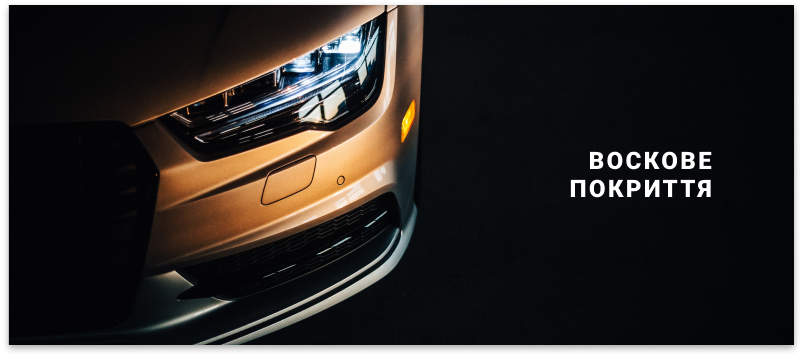
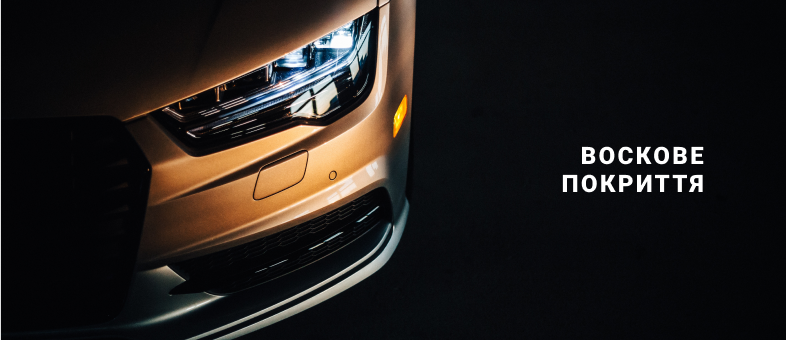
downloaded new images without attatchments, realigned all and fixed reponsiveness

diff --git a/css/style.css b/css/style.css
@@ -387,6 +387,7 @@ main {
   position: relative;
   margin-top: 183px; }
   main .top-grid a img {
+    box-shadow: 0px 3px 8px rgba(0, 0, 0, 0.35);
     opacity: 0.9;
     transition: all ease-in-out 300ms;
     -webkit-transition: all ease-in-out 300ms;
@@ -404,25 +405,40 @@ main {
       -o-transform: scale(1.02); }
     main .top-grid a img.one {
       width: 373.96px;
-      height: 410px; }
+      height: 410px;
+      border-radius: 20px 0 0 0;
+      -webkit-border-radius: 20px 0 0 0;
+      -moz-border-radius: 20px 0 0 0;
+      -ms-border-radius: 20px 0 0 0;
+      -o-border-radius: 20px 0 0 0; }
     main .top-grid a img.two {
       width: 780.1px;
-      height: 340px; }
+      height: 340px;
+      border-radius: 0 20px 0 0;
+      -webkit-border-radius: 0 20px 0 0;
+      -moz-border-radius: 0 20px 0 0;
+      -ms-border-radius: 0 20px 0 0;
+      -o-border-radius: 0 20px 0 0; }
     main .top-grid a img.three {
       width: 373.96px;
       height: 532px; }
     main .top-grid a img.four {
-      width: 450.32px;
-      height: 280px; }
+      width: 448.32px;
+      height: 274px; }
     main .top-grid a img.five {
       width: 325.85px;
-      height: 280px; }
+      height: 274px; }
     main .top-grid a img.six {
-      width: 785.1px;
+      width: 778.1px;
       height: 318px; }
     main .top-grid a img.seven {
       width: 1156px;
-      height: 364px; }
+      height: 364px;
+      border-radius: 0 0 20px 20px;
+      -webkit-border-radius: 0 0 20px 20px;
+      -moz-border-radius: 0 0 20px 20px;
+      -ms-border-radius: 0 0 20px 20px;
+      -o-border-radius: 0 0 20px 20px; }
   main h1 {
     color: #8B8B8B;
     font-family: "Roboto Condensed", sans-serif;
@@ -970,8 +986,20 @@ footer {
   .top-grid .seven {
     width: 100vw !important;
     height: auto !important;
-    margin: 0 !important;
-    padding: 0 !important; }
+    margin: 5px 0 !important;
+    padding: 10px !important; }
+  .top-grid .one {
+    border-radius: 20px 20px 0 0 !important;
+    -webkit-border-radius: 20px 20px 0 0 !important;
+    -moz-border-radius: 20px 20px 0 0 !important;
+    -ms-border-radius: 20px 20px 0 0 !important;
+    -o-border-radius: 20px 20px 0 0 !important; }
+  .top-grid .two {
+    border-radius: 0 !important;
+    -webkit-border-radius: 0 !important;
+    -moz-border-radius: 0 !important;
+    -ms-border-radius: 0 !important;
+    -o-border-radius: 0 !important; }
   .top-grid h1 {
     text-align: center !important;
     font-size: 62px;
@@ -984,13 +1012,20 @@ footer {
     .top-grid a img {
       margin: 0 auto !important;
       padding: 0 !important; }
-  .top-grid .col {
-    margin: 0 auto !important;
+  .top-grid .col-md {
+    margin: 0 !important;
     padding: 0 !important; }
-    .top-grid .col a {
+    .top-grid .col-md .four,
+    .top-grid .col-md .five,
+    .top-grid .col-md .six {
+      width: 100vw !important;
+      height: auto !important;
+      margin: 5px 0 !important;
+      padding: 10px !important; }
+    .top-grid .col-md a {
       margin: 0 auto !important;
       padding: 0 !important; }
-      .top-grid .col a img {
+      .top-grid .col-md a img {
         margin: 0 auto !important;
         padding: 0 !important; }
   .jumbotron h2 {

diff --git a/index.html b/index.html
@@ -133,33 +133,35 @@
             <div class="container text-center top-grid p-0">
                 <h1 class="text-left">Ми <br>
                     пропонуємо</h1>
-                <div class="row ">
+                <div class="row p-0">
                     <a class="" href="#">
-                        <img class=" img-fluid card__hover_two one rounded" style="" src="img/Group 3.png" alt="">
+                        <img class=" img-fluid one mr-1 mb-1" style="" src="img/Group 3.png" alt="">
                     </a>
                     <a class="" href="#">
-                        <img class=" two img-fluid" style="" src="img/Group 6.png" alt="">
+                        <img class=" two img-fluid " style="" src="img/Group 6.png" alt="">
                     </a>
                     <a class="" href="#">
                         <img class=" three img-fluid" style="" src="img/Group 5.png" alt="">
                     </a>
-                    <div class="col m-0 p-0 mt-n3 ml-n3">
-                        <a class="mt-n3 " href="#">
-                            <img class="four img-fluid mt-n5" style="" src="img/Group 4.png" alt="">
-                        </a>
-                        <a class="mt-n4 " href="#">
-                            <img class="five img-fluid mt-n5" style="" src="img/Group.png" alt="">
+                    <div class="col-md m-0 p-0 mt-n5 ml-n2 ">
+                        <a class="  " href="#">
+                            <img class="four img-fluid mt-n3" style="" src="img/Group 4.png" alt="">
                         </a>
                         <a class=" " href="#">
-                            <img class="six img-fluid" style="" src="img/Group 2.png" alt="">
+                            <img class="five img-fluid mt-n4" style="" src="img/Group.png" alt="">
+                        </a>
+                        <a class=" " href="#">
+                            <img class="six img-fluid mt-1" style="" src="img/Group 2.png" alt="">
                         </a>
                     </div>
 
                     <a class=" " href="#">
-                        <img class=" seven img-fluid" style="" src="img/Group 7.png" alt="">
+                        <img class=" seven img-fluid mt-2" style="" src="img/Group 7.png" alt="">
                     </a>
                 </div>
             </div>
+
+
 
 
             <div class="jumbotron recomendations">

diff --git a/scss/style.scss b/scss/style.scss
@@ -565,6 +565,7 @@ main {
     .top-grid {
 
         a img {
+            box-shadow: 0px 3px 8px rgba(0, 0, 0, 0.35);
             opacity: 0.9;
             transition: all ease-in-out 300ms;
             -webkit-transition: all ease-in-out 300ms;
@@ -586,39 +587,55 @@ main {
             &.one {
                 width: 373.96px;
                 height: 410px;
-
-
+                border-radius: 20px 0 0 0;
+                -webkit-border-radius: 20px 0 0 0;
+                -moz-border-radius: 20px 0 0 0;
+                -ms-border-radius: 20px 0 0 0;
+                -o-border-radius: 20px 0 0 0;
             }
 
             &.two {
                 width: 780.1px;
                 height: 340px;
-
+                border-radius: 0 20px 0 0;
+                -webkit-border-radius: 0 20px 0 0;
+                -moz-border-radius: 0 20px 0 0;
+                -ms-border-radius: 0 20px 0 0;
+                -o-border-radius: 0 20px 0 0;
             }
 
             &.three {
+
                 width: 373.96px;
                 height: 532px;
             }
 
             &.four {
-                width: 450.32px;
-                height: 280px;
+
+                width: 448.32px;
+                height: 274px;
             }
 
             &.five {
+
                 width: 325.85px;
-                height: 280px;
+                height: 274px;
             }
 
             &.six {
-                width: 785.1px;
+
+                width: 778.1px;
                 height: 318px;
             }
 
             &.seven {
                 width: 1156px;
                 height: 364px;
+                border-radius: 0 0 20px 20px;
+                -webkit-border-radius: 0 0 20px 20px;
+                -moz-border-radius: 0 0 20px 20px;
+                -ms-border-radius: 0 0 20px 20px;
+                -o-border-radius: 0 0 20px 20px;
             }
 
 

diff --git a/scss/_mobile.scss b/scss/_mobile.scss
@@ -93,8 +93,24 @@
         .seven {
             width: 100vw !important;
             height: auto !important;
-            margin: 0 !important;
-            padding: 0 !important;
+            margin: 5px 0 !important;
+            padding: 10px !important;
+        }
+
+        .one {
+            border-radius: 20px 20px 0 0 !important;
+            -webkit-border-radius: 20px 20px 0 0 !important;
+            -moz-border-radius: 20px 20px 0 0 !important;
+            -ms-border-radius: 20px 20px 0 0 !important;
+            -o-border-radius: 20px 20px 0 0 !important;
+        }
+
+        .two {
+            border-radius: 0 !important;
+            -webkit-border-radius: 0 !important;
+            -moz-border-radius: 0 !important;
+            -ms-border-radius: 0 !important;
+            -o-border-radius: 0 !important;
         }
 
         h1 {
@@ -115,10 +131,19 @@
             }
         }
 
-        .col {
+        .col-md {
 
-            margin: 0 auto !important;
+            margin: 0 !important;
             padding: 0 !important;
+
+            .four,
+            .five,
+            .six {
+                width: 100vw !important;
+                height: auto !important;
+                margin: 5px 0 !important;
+                padding: 10px !important;
+            }
 
             a {
                 margin: 0 auto !important;
@@ -127,6 +152,8 @@
                 img {
                     margin: 0 auto !important;
                     padding: 0 !important;
+
+
                 }
             }
 
